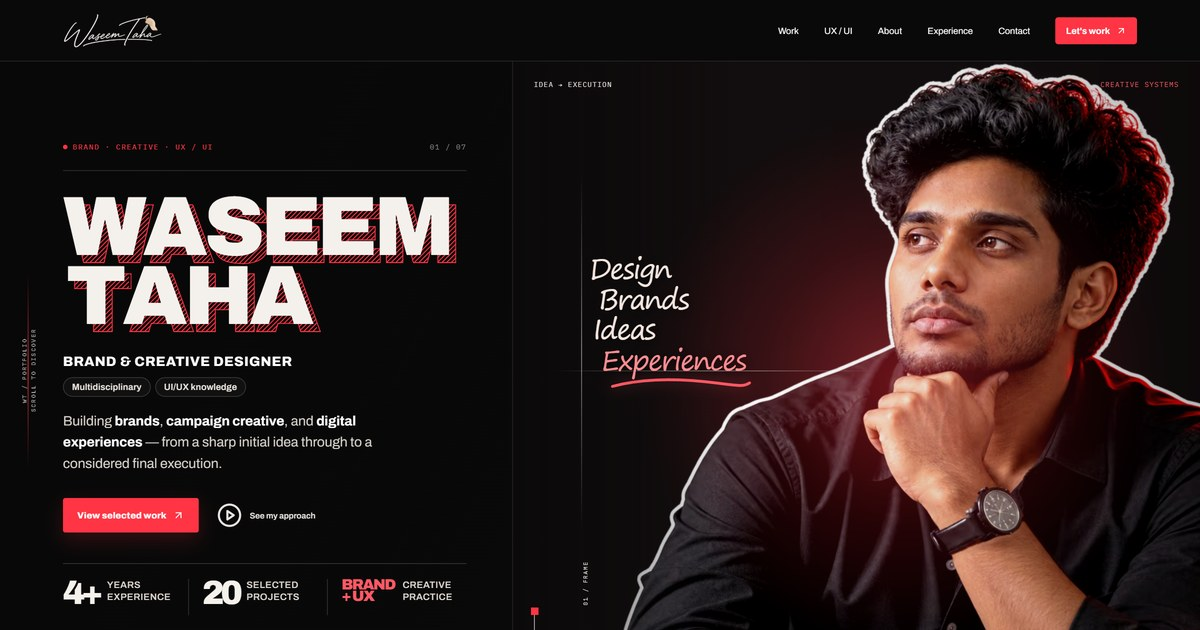
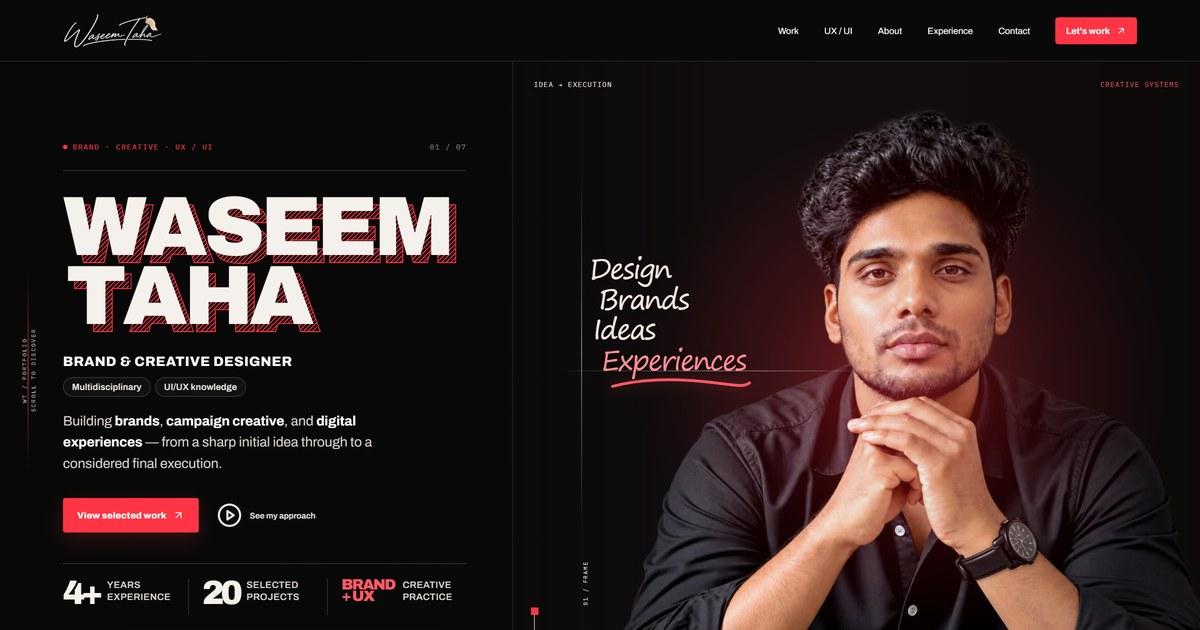
Use the new hero photo and the HD watch
The new portrait is almost square, so the hero canvas now takes the
photo's own 1299:1211 shape, stands on the panel's bottom edge with
headroom above the hair, and keeps the near arm clear of the frame
guide and corner bracket. Narrow panels anchor it on the watch so the
face stays clear of the handwriting.

The watch on the wrist is the HD render (hero/hero-watch.png), fitted
to where the watch sits in the with-watch photo. The flight keeps that
one watch until the card flips to the front view, instead of
cross-fading into a different tilted model, so the old tilted and
wrist cut-outs are gone. The link-preview card is recaptured from the
new hero, with a versioned URL so apps fetch it again.

diff --git a/app/globals.css b/app/globals.css
@@ -53,10 +53,15 @@ body{font-family:Archivo,Arial,sans-serif}h1,h2,h3,.logo{font-family:Archivo,Ari
 .portrait-media{position:absolute;z-index:1;inset:0;overflow:hidden;will-change:clip-path}.portrait-image{position:absolute;inset:-1px;will-change:transform}.portrait-image img{object-fit:cover;object-position:65% center;filter:contrast(1.08) saturate(.91)}.portrait-wipe{position:absolute;z-index:5;inset:0;transform-origin:right center;background:linear-gradient(90deg,#ff3947 0%,#ae1824 38%,#1d0b0d 77%,#0b0909 100%);will-change:transform}.portrait-guides{position:absolute;z-index:6;inset:0;pointer-events:none}.portrait-guides i{position:absolute;display:block;background:rgba(247,239,232,.6)}.portrait-guides i:first-child{top:18%;left:10%;width:1px;height:58%;background:linear-gradient(transparent,rgba(247,239,232,.62),transparent)}.portrait-guides i:nth-child(2){top:50%;left:6%;width:47%;height:1px;background:linear-gradient(90deg,transparent,rgba(247,239,232,.62),transparent)}.portrait-guides span{position:absolute;left:10%;bottom:12%;color:#eee8e3;font:8px 'IBM Plex Mono',monospace;letter-spacing:1.1px;writing-mode:vertical-rl;transform:rotate(180deg)}
 @media(prefers-reduced-motion:reduce){.portrait-media{clip-path:inset(0)!important}.portrait-image,.portrait-wipe{transform:none!important}.portrait-wipe{display:none}.portrait-guides{opacity:1!important}}
 
-/* Hero photo canvas: the photo keeps its 3:2 frame (cover, 65% across), so the watch sits on the wrist in image coordinates. */
+/* Hero photo canvas: the photo's own 1299:1211 shape, so the watch sits on the wrist in image coordinates. Like a bust it
+   stands on the panel's bottom edge with headroom above the hair, and keeps its near arm clear of the "01 / FRAME" guide
+   and corner bracket (losing at most 8% of the far arm instead). Narrow panels anchor it on the watch, which stays in frame
+   with the face clear of the handwriting. */
 .portrait-image{container-type:size}
-.portrait-canvas{position:absolute;--cw:max(100cqw,150cqh);left:calc((100cqw - var(--cw)) * .65);top:calc((100cqh - var(--cw) / 1.5) * .5);width:var(--cw);height:calc(var(--cw) / 1.5)}
-.hero-watch{position:absolute;z-index:2;left:61.654%;top:68.359%;width:10.482%;height:11.914%}
+.portrait-canvas{position:absolute;--r:1.0727;--ch:min(93cqh,(90cqw - 24px) / (var(--r) * .92));bottom:0;left:max((100cqw - var(--ch) * var(--r)) * .62,10cqw + 24px);width:calc(var(--ch) * var(--r));height:var(--ch)}
+@container (max-width:640px){.portrait-canvas{--ch:min(85cqh,100cqw);left:calc(100cqw - 6px - var(--ch) * var(--r) * .717)}}
+.hero-watch{position:absolute;z-index:2;left:53.945%;top:69.156%;width:20.246%;height:16.083%}
+.hero-watch img{filter:contrast(1.08) saturate(.91) drop-shadow(0 2px 2.5px rgba(0,0,0,.42))}
 .hero-watch.is-gone{visibility:hidden}
 
 /* Hero handwriting: each word inks in left to right behind a pen nib, then a swoosh underlines the last word. */
@@ -195,7 +200,7 @@ body{font-family:Archivo,Arial,sans-serif}h1,h2,h3,.logo{font-family:Archivo,Ari
 .watch-face{position:absolute;inset:0;backface-visibility:hidden}
 .watch-face img{object-fit:contain}
 .watch-face.is-wrist{filter:contrast(1.08) saturate(.91) brightness(.9)}
-.watch-face.is-tilt,.watch-face.is-front{opacity:0}
+.watch-face.is-front{opacity:0}
 .watch-face.is-front{transform:rotateY(180deg)}
 .flight-noodle{position:fixed;z-index:10;inset:0;width:100%;height:100%;overflow:visible;visibility:hidden;pointer-events:none}
 .flight-noodle.is-on{visibility:visible}

diff --git a/app/components/watch-flight.tsx b/app/components/watch-flight.tsx
@@ -73,10 +73,11 @@ export function WatchFlight({ children }: { children: React.ReactNode }) {
     f.style.filter = `drop-shadow(0 ${lerp(3, 36, lift).toFixed(1)}px ${lerp(4, 42, lift).toFixed(1)}px rgba(0,0,0,${(0.3 + 0.3 * lift).toFixed(2)}))`;
     const flip = smooth(0.5, 0.82, p) * 180;
     c.style.transform = `rotateZ(${(-12 * lift).toFixed(2)}deg) rotateY(${flip.toFixed(2)}deg)`;
+    // One watch the whole way: it leaves the wrist graded like the photo, brightens as it lifts, and only becomes the
+    // front view while the card is edge-on, so two watches never show at once.
     const handoff = smooth(0.05, 0.2, p);
-    const [faceWrist, faceTilt, faceFront] = faces.current;
-    if (faceWrist) { faceWrist.style.opacity = String(1 - handoff); faceWrist.style.filter = `contrast(1.08) saturate(.91) brightness(${lerp(0.9, 1, handoff).toFixed(3)})`; }
-    if (faceTilt) faceTilt.style.opacity = String(handoff * smooth(90, 78, flip));
+    const [faceWrist, faceFront] = faces.current;
+    if (faceWrist) { faceWrist.style.opacity = String(smooth(90, 78, flip)); faceWrist.style.filter = `contrast(1.08) saturate(.91) brightness(${lerp(0.9, 1, handoff).toFixed(3)})`; }
     if (faceFront) faceFront.style.opacity = String(smooth(90, 102, flip));
 
     const fade = smooth(0, 0.06, p) * smooth(1, 0.9, p);
@@ -117,19 +118,19 @@ export function WatchFlight({ children }: { children: React.ReactNode }) {
     <p ref={tag} className={`flight-tag${flying ? " is-on" : ""}`} aria-hidden="true"><i />Smart animate<span>Hero → About</span></p>
     <div ref={flyer} className={`watch-flyer${flying ? " is-on" : ""}`} aria-hidden="true">
       <div ref={card} className="watch-card">
-        <div className="watch-face is-wrist" ref={(el) => { faces.current[0] = el; }}><Image src="/images/about/watch-wrist.png" alt="" fill sizes="20vw" /></div>
-        <div className="watch-face is-tilt" ref={(el) => { faces.current[1] = el; }}><Image src="/images/about/watch-tilt.png" alt="" fill sizes="30vw" /></div>
-        <div className="watch-face is-front" ref={(el) => { faces.current[2] = el; }}><Image src="/images/about/watch-front.png" alt="" fill sizes="30vw" /></div>
+        <div className="watch-face is-wrist" ref={(el) => { faces.current[0] = el; }}><Image src="/images/hero/hero-watch.png" alt="" fill sizes="20vw" /></div>
+        <div className="watch-face is-front" ref={(el) => { faces.current[1] = el; }}><Image src="/images/about/watch-front.png" alt="" fill sizes="30vw" /></div>
       </div>
     </div>
   </WatchContext.Provider>;
 }
 
-/* Sits inside the hero photo canvas, exactly over the wrist it was cut from. */
+/* Sits inside the hero photo canvas, fitted over the wrist where the watch was photographed. The flyer starts from
+   this same box with the same image, so the handoff is seamless. */
 export function HeroWatch() {
   const { hero, phase } = useWatch();
   return <div ref={hero} className={`hero-watch${phase === "start" || phase === "static" ? "" : " is-gone"}`} aria-hidden="true">
-    <Image src="/images/about/watch-wrist.png" alt="" fill priority sizes="12vw" />
+    <Image src="/images/hero/hero-watch.png" alt="" fill priority sizes="(max-width: 760px) 26vw, 11vw" />
   </div>;
 }
 

diff --git a/app/page.tsx b/app/page.tsx
@@ -302,7 +302,7 @@ export default function Home() {
       <Reveal className="hero-art">
         <div className="hero-art-meta"><span>IDEA → EXECUTION</span><span>CREATIVE SYSTEMS</span></div>
         <div className="hero-red-halo" />
-        <motion.div className="portrait-media" initial={{ clipPath: "inset(0 100% 0 0)" }} animate={{ clipPath: "inset(0 0% 0 0)" }} transition={{ delay: 0.18, duration: 1.05, ease: [0.77, 0, 0.18, 1] }}><motion.div className="portrait-image" initial={{ scale: 1.13, x: 34 }} animate={{ scale: 1, x: 0 }} transition={{ delay: 0.18, duration: 1.35, ease: [0.16, 1, 0.3, 1] }}><div className="portrait-canvas"><Image src="/images/hero/hero-no-watch.png" alt="Waseem Taha" fill priority sizes="(max-width: 760px) 200vw, 90vw" /><HeroWatch /></div></motion.div></motion.div>
+        <motion.div className="portrait-media" initial={{ clipPath: "inset(0 100% 0 0)" }} animate={{ clipPath: "inset(0 0% 0 0)" }} transition={{ delay: 0.18, duration: 1.05, ease: [0.77, 0, 0.18, 1] }}><motion.div className="portrait-image" initial={{ scale: 1.13, x: 34 }} animate={{ scale: 1, x: 0 }} transition={{ delay: 0.18, duration: 1.35, ease: [0.16, 1, 0.3, 1] }}><div className="portrait-canvas"><Image src="/images/hero/hero-no-watch.png" alt="Waseem Taha" fill priority sizes="(max-width: 760px) 120vw, (max-width: 1020px) 70vw, 52vw" /><HeroWatch /></div></motion.div></motion.div>
         <motion.div className="portrait-wipe" initial={{ scaleX: 1 }} animate={{ scaleX: 0 }} transition={{ delay: 0.28, duration: 0.78, ease: [0.77, 0, 0.18, 1] }} aria-hidden="true" />
         <motion.div className="portrait-guides" initial={{ opacity: 0 }} animate={{ opacity: 1 }} transition={{ delay: 0.9, duration: 0.4 }} aria-hidden="true"><i /><i /><span>01 / FRAME</span></motion.div>
         <div className="hero-frame" aria-hidden="true" />

diff --git a/app/layout.tsx b/app/layout.tsx
@@ -9,7 +9,8 @@ export const metadata: Metadata = {
     title: "Waseem Taha — Portfolio",
     description: "Case studies, visual systems, and digital experiences.",
     type: "website",
-    images: [{ url: "/images/brand/link-preview.jpg", width: 1200, height: 630, alt: "Waseem Taha — Brand & Creative Designer" }],
+    // Bump ?v= whenever the card changes: chat apps and LinkedIn cache preview images by URL.
+    images: [{ url: "/images/brand/link-preview.jpg?v=2", width: 1200, height: 630, alt: "Waseem Taha — Brand & Creative Designer" }],
   },
   twitter: { card: "summary_large_image" },
 };
